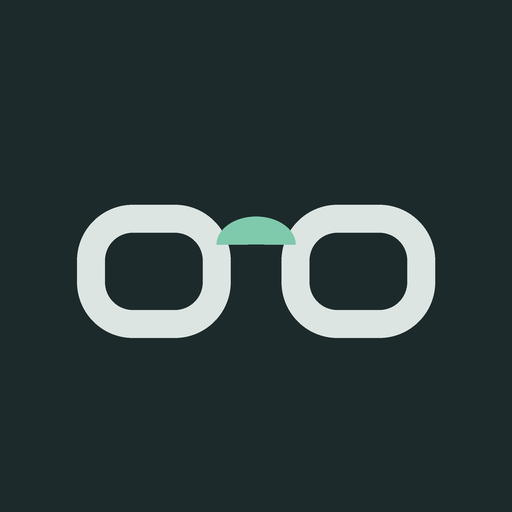
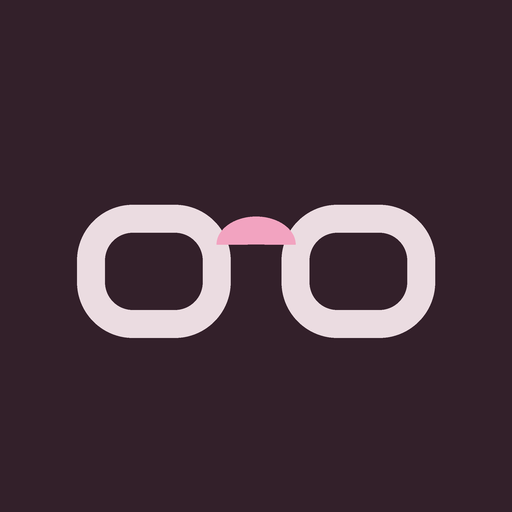
Add files via upload

Changed region(s): [[0.4062, 0.4062, 0.5938, 0.5]]

diff --git a/index.html b/index.html
@@ -4,7 +4,7 @@
 <meta charset="utf-8">
 <meta name="viewport" content="width=device-width, initial-scale=1, viewport-fit=cover">
 <title>Skincare</title>
-<meta name="theme-color" content="#1D2A2B">
+<meta name="theme-color" content="#33202A">
 <meta name="apple-mobile-web-app-capable" content="yes">
 <meta name="apple-mobile-web-app-status-bar-style" content="black-translucent">
 <meta name="apple-mobile-web-app-title" content="Skincare">
@@ -12,9 +12,9 @@
 <link rel="manifest" href="manifest.json">
 <style>
   :root{
-    --paper:#EEF1EC; --card:#F7F9F6; --ink:#151E1C; --night:#1D2A2B;
-    --night-ink:#DCE5E2; --signal:#2F6B57; --signal-lt:#7FC9AC; --warn:#A64B5C;
-    --warn-lt:#E79AA8; --muted:#69756F; --rule:#CFD8D1;
+    --paper:#F6EEF0; --card:#FCF7F8; --ink:#21151A; --night:#33202A;
+    --night-ink:#EBDCE1; --signal:#A5335F; --signal-lt:#F2A3C0; --warn:#8F5516;
+    --warn-lt:#E8B268; --muted:#7B6670; --rule:#E2CDD4;
     --mono:ui-monospace,SFMono-Regular,"SF Mono",Menlo,Consolas,monospace;
     --display:"Iowan Old Style","Palatino Linotype",Palatino,Georgia,serif;
   }
@@ -73,6 +73,32 @@
   .status-btns button{flex:1;padding:9px 0;border-radius:3px;border:1px solid var(--rule);background:none;color:var(--muted);font-family:var(--mono);font-size:11px;letter-spacing:.08em;}
   .status-btns button.on{background:var(--signal);border-color:var(--signal);color:#fff;}
   .status-btns button.on.worse{background:var(--warn);border-color:var(--warn);}
+  .status-row + .status-row{margin-top:12px;}
+  .row-label{font-size:12.5px;color:var(--muted);margin-bottom:6px;}
+
+  .flag{display:flex;align-items:center;gap:12px;margin-bottom:14px;padding:11px 13px;
+    background:var(--card);border:1px solid var(--rule);border-left:3px solid var(--signal);border-radius:3px;}
+  .flag-txt{flex:1;font-size:13px;}
+  .flag-txt b{display:block;font-family:var(--mono);font-size:9.5px;letter-spacing:.14em;
+    text-transform:uppercase;color:var(--signal);margin-bottom:3px;}
+  .flag button{flex:0 0 auto;padding:8px 12px;border-radius:3px;border:none;background:var(--signal);
+    color:#fff;font-family:var(--mono);font-size:10px;letter-spacing:.1em;}
+
+  .hist{margin-top:22px;padding-top:16px;border-top:1px solid var(--rule);}
+  .hist-toggle{width:100%;padding:8px;background:none;border:1px solid var(--rule);border-radius:3px;
+    font-family:var(--mono);font-size:10px;letter-spacing:.12em;color:var(--muted);}
+  .hist-list{margin-top:12px;}
+  .hist-row{display:grid;grid-template-columns:64px 1fr 1fr;gap:8px;align-items:baseline;
+    padding:7px 0;border-top:1px solid var(--rule);font-size:12.5px;}
+  .hist-row:first-child{border-top:none;}
+  .hist-date{font-family:var(--mono);font-size:10px;color:var(--muted);}
+  .hist-k{font-family:var(--mono);font-size:9px;letter-spacing:.1em;color:var(--muted);display:block;}
+  .v-Better{color:var(--signal);font-weight:600;}
+  .v-Worse{color:var(--warn);font-weight:600;}
+  .v-Same{color:var(--muted);}
+  .hist-empty{font-size:12.5px;color:var(--muted);margin-top:12px;}
+  .export{width:100%;margin-top:12px;padding:8px;background:none;border:1px solid var(--rule);
+    border-radius:3px;font-family:var(--mono);font-size:10px;letter-spacing:.12em;color:var(--muted);}
 
   .endnote{margin-top:16px;padding:13px 15px;border-left:3px solid var(--warn);background:var(--card);font-size:13px;}
   .endnote b{color:var(--warn);}
@@ -84,7 +110,7 @@
   .plabel{font-family:var(--mono);font-size:9px;letter-spacing:.12em;color:var(--muted);margin-bottom:6px;}
   .dots{display:grid;grid-template-columns:repeat(7,1fr);gap:5px;}
   .dot{aspect-ratio:1;border-radius:3px;border:1px solid var(--rule);background:none;color:var(--muted);font-family:var(--mono);font-size:9px;padding:0;}
-  .dot.part{background:#B6CFC4;}
+  .dot.part{background:#EFC3D4;}
   .dot.full{background:var(--signal);color:#fff;border-color:var(--signal);}
   .dot.today{border:1.5px dashed var(--signal);}
   .dot.cur{border:2px solid var(--ink);}
@@ -141,21 +167,18 @@
       am.push({ t: "La Roche-Posay B5 SPF \u2014 face" });
       am.push({ t: "Garnier fluid \u2014 bridge only, over the B5", k: "treat" });
     }
-    am.push({ t: "Five minutes before the glasses go on" });
-    if (wd === 0 || wd === 2 || wd === 4 || wd === 6)
-      am.push({ t: "Wash the frames \u2014 warm water + washing-up liquid" });
 
     pm.push({ t: "Byoma milky toner" });
     if (wd === 0 || wd === 4) {
       pm.push({ t: "The Ordinary retinol", k: "avoid" });
     } else if (wd === 2) {
       pm.push({ t: "La Roche-Posay salicylic acid toner", k: phase === 1 ? "include" : "avoid" });
-      pm.push({ t: "Purito bamboo gel" });
+      pm.push({ t: "Night moisturiser" });
     } else if (wd === 5) {
       pm.push({ t: "Glycolic acid toner", k: "avoid" });
-      pm.push({ t: "Purito bamboo gel" });
+      pm.push({ t: "Night moisturiser" });
     } else {
-      pm.push({ t: "Purito bamboo gel" });
+      pm.push({ t: "Night moisturiser" });
       pm.push({ t: "Niacinamide serum" });
     }
     return { phase: phase, wd: wd, am: am, pm: pm };
@@ -166,9 +189,10 @@
 
   /* ---------- state ---------- */
 
-  var state = { checks: {}, status: {} };
+  var state = { checks: {}, status: {}, lastExport: null };
   var index = todayIndex();
   var storageOK = true;
+  var histOpen = false;
 
   try {
     var raw = window.localStorage.getItem(STORE);
@@ -176,6 +200,7 @@
       var p = JSON.parse(raw);
       state.checks = p.checks || {};
       state.status = p.status || {};
+      state.lastExport = p.lastExport || null;
     }
   } catch (e) { storageOK = false; }
 
@@ -191,6 +216,37 @@
     if (cls) e.className = cls;
     if (text != null) e.textContent = text;
     return e;
+  }
+
+  // status is { face: "Better|Same|Worse", nose: ... }; tolerate the old single-string form
+  function statusFor(k) {
+    var v = state.status[k];
+    if (!v) return {};
+    if (typeof v === "string") return { nose: v };
+    return v;
+  }
+
+  function setStatus(k, part, val) {
+    var cur = statusFor(k);
+    var next = { face: cur.face, nose: cur.nose };
+    if (next[part] === val) delete next[part]; else next[part] = val;
+    if (!next.face && !next.nose) delete state.status[k];
+    else state.status[k] = next;
+  }
+
+  // what was actually applied that day — the thing a reaction has to be correlated against
+  function activesFor(i) {
+    var d = DAYS[i], out = [];
+    d.am.concat(d.pm).forEach(function (item) {
+      var t = item.t;
+      if (t.indexOf("Nizoral") === 0) out.push("Nizoral");
+      else if (t.indexOf("Benzoyl") === 0) out.push("BPO");
+      else if (t.indexOf("Garnier") === 0) out.push("Garnier");
+      else if (t.indexOf("The Ordinary retinol") === 0) out.push("Retinol");
+      else if (t.indexOf("La Roche-Posay salicylic") === 0) out.push("SA");
+      else if (t.indexOf("Glycolic") === 0) out.push("Glycolic");
+    });
+    return out;
   }
 
   function progressOf(i) {
@@ -245,23 +301,30 @@
       app.appendChild(jump);
     }
 
+    var flag = exportFlag();
+    if (flag) app.appendChild(flag);
+
     app.appendChild(slotBlock("AM", day.am, dk, "am", false));
     app.appendChild(slotBlock("PM", day.pm, dk, "pm", true));
 
-    // status
+    // reaction log
     var st = el("div", "status");
-    st.appendChild(el("div", "status-label", "How's the bridge today?"));
-    var btns = el("div", "status-btns");
-    ["Better", "Same", "Worse"].forEach(function (v) {
-      var b = el("button", null, v);
-      if (state.status[dk] === v) b.className = "on" + (v === "Worse" ? " worse" : "");
-      b.onclick = function () {
-        if (state.status[dk] === v) delete state.status[dk]; else state.status[dk] = v;
-        save(); render();
-      };
-      btns.appendChild(b);
+    st.appendChild(el("div", "status-label", "Any reactions?"));
+    var cur = statusFor(dk);
+    [["nose", "Nose"], ["face", "Rest of face"]].forEach(function (pair) {
+      var part = pair[0];
+      var row = el("div", "status-row");
+      row.appendChild(el("div", "row-label", pair[1]));
+      var btns = el("div", "status-btns");
+      ["Better", "Same", "Worse"].forEach(function (v) {
+        var b = el("button", null, v);
+        if (cur[part] === v) b.className = "on" + (v === "Worse" ? " worse" : "");
+        b.onclick = function () { setStatus(dk, part, v); save(); render(); };
+        btns.appendChild(b);
+      });
+      row.appendChild(btns);
+      st.appendChild(row);
     });
-    st.appendChild(btns);
     app.appendChild(st);
 
     // end-of-phase note
@@ -304,6 +367,9 @@
     });
     app.appendChild(gw);
 
+    // history + export
+    app.appendChild(historyBlock());
+
     // footer
     var f = el("footer");
     f.appendChild(document.createTextNode(storageOK
@@ -312,10 +378,14 @@
     f.appendChild(el("br"));
     f.appendChild(document.createTextNode("NEVER TWO ACIDS, OR ACID PLUS RETINOL, ON ONE NIGHT"));
     f.appendChild(el("br"));
+    f.appendChild(document.createTextNode(state.lastExport
+      ? "LAST EXPORT " + state.lastExport
+      : "NEVER EXPORTED"));
+    f.appendChild(el("br"));
     var reset = el("button", null, "Reset all progress");
     reset.onclick = function () {
       if (window.confirm("Clear every tick and note? This can't be undone.")) {
-        state = { checks: {}, status: {} };
+        state = { checks: {}, status: {}, lastExport: null };
         save(); render();
       }
     };
@@ -334,8 +404,8 @@
       var box = el("span", "box", on ? "\u2713" : "");
       var txt = el("span", "txt");
       txt.appendChild(document.createTextNode(item.t));
-      if (item.k === "avoid") txt.appendChild(el("span", "avoid", " \u2014 avoid the bridge"));
-      if (item.k === "include") txt.appendChild(el("span", "include", " \u2014 bridge included"));
+      if (item.k === "avoid") txt.appendChild(el("span", "avoid", " \u2014 avoid nose"));
+      if (item.k === "include") txt.appendChild(el("span", "include", " \u2014 nose included"));
       row.appendChild(box); row.appendChild(txt);
       row.onclick = function () {
         if (state.checks[k]) delete state.checks[k]; else state.checks[k] = true;
@@ -344,6 +414,131 @@
       wrap.appendChild(row);
     });
     return wrap;
+  }
+
+  function daysSince(isoKey) {
+    var parts = isoKey.split("-");
+    var then = new Date(+parts[0], +parts[1] - 1, +parts[2]);
+    var now = new Date();
+    now = new Date(now.getFullYear(), now.getMonth(), now.getDate());
+    return Math.round((now - then) / 86400000);
+  }
+
+  // nudge on Sundays, and again if a week has slipped by without a backup
+  function exportFlag() {
+    var ti = todayIndex(), t = dateFor(ti), tk = keyFor(t);
+    if (state.lastExport === tk) return null;
+
+    var isSunday = t.getDay() === 0;
+    var gap = state.lastExport ? daysSince(state.lastExport) : ti;
+    var stale = gap >= 7;
+    if (!isSunday && !stale) return null;
+
+    var wrap = el("div", "flag");
+    var txt = el("div", "flag-txt");
+    txt.appendChild(el("b", null, isSunday ? "Sunday" : "Backup overdue"));
+    txt.appendChild(document.createTextNode(
+      state.lastExport
+        ? "Last export was " + gap + (gap === 1 ? " day ago." : " days ago.")
+        : "Nothing backed up yet. Export the log so a wipe can't cost you it."
+    ));
+    wrap.appendChild(txt);
+
+    var b = el("button", null, "EXPORT");
+    b.onclick = exportCsv;
+    wrap.appendChild(b);
+    return wrap;
+  }
+
+  function historyBlock() {
+    var wrap = el("div", "hist");
+
+    var logged = [];
+    for (var i = 0; i < TOTAL; i++) {
+      var st = statusFor(keyFor(dateFor(i)));
+      if (st.face || st.nose) logged.push(i);
+    }
+
+    var toggle = el("button", "hist-toggle",
+      (histOpen ? "HIDE" : "SHOW") + " REACTION LOG (" + logged.length + ")");
+    toggle.onclick = function () { histOpen = !histOpen; render(); };
+    wrap.appendChild(toggle);
+
+    if (!histOpen) return wrap;
+
+    if (!logged.length) {
+      wrap.appendChild(el("p", "hist-empty",
+        "Nothing logged yet. Tap Better / Same / Worse on a day and it'll appear here."));
+    } else {
+      var list = el("div", "hist-list");
+      logged.forEach(function (i) {
+        var d = dateFor(i), st = statusFor(keyFor(d));
+        var row = el("div", "hist-row");
+
+        var dt = el("div", "hist-date");
+        dt.textContent = d.toLocaleDateString("en-GB", { day: "2-digit", month: "short" });
+        var acts = activesFor(i);
+        dt.appendChild(el("span", "hist-k", acts.length ? acts.join(" ") : "\u2014"));
+        row.appendChild(dt);
+
+        [["nose", "NOSE"], ["face", "FACE"]].forEach(function (pair) {
+          var cell = el("div");
+          cell.appendChild(el("span", "hist-k", pair[1]));
+          var v = st[pair[0]];
+          cell.appendChild(el("span", v ? "v-" + v : "v-Same", v || "\u2014"));
+          row.appendChild(cell);
+        });
+        list.appendChild(row);
+      });
+      wrap.appendChild(list);
+    }
+
+    var exp = el("button", "export", "EXPORT ALL 63 DAYS AS CSV");
+    exp.onclick = exportCsv;
+    wrap.appendChild(exp);
+
+    return wrap;
+  }
+
+  function exportCsv() {
+    var rows = [["date", "day", "phase", "weekday", "actives", "nose", "face", "steps_done", "steps_total"]];
+    for (var i = 0; i < TOTAL; i++) {
+      var d = dateFor(i), k = keyFor(d), st = statusFor(k), pg = progressOf(i);
+      rows.push([
+        k,
+        i + 1,
+        Math.floor(i / 21) + 1,
+        d.toLocaleDateString("en-GB", { weekday: "short" }),
+        activesFor(i).join(" "),
+        st.nose || "",
+        st.face || "",
+        pg.done,
+        pg.total
+      ]);
+    }
+    var csv = rows.map(function (r) {
+      return r.map(function (c) {
+        c = String(c);
+        return /[",\n]/.test(c) ? '"' + c.replace(/"/g, '""') + '"' : c;
+      }).join(",");
+    }).join("\n");
+
+    try {
+      var blob = new Blob([csv], { type: "text/csv;charset=utf-8" });
+      var url = URL.createObjectURL(blob);
+      var a = document.createElement("a");
+      a.href = url;
+      a.download = "skincare-log.csv";
+      document.body.appendChild(a);
+      a.click();
+      document.body.removeChild(a);
+      setTimeout(function () { URL.revokeObjectURL(url); }, 1000);
+    } catch (e) {
+      window.prompt("Copy the CSV:", csv);
+    }
+    state.lastExport = keyFor(new Date());
+    save();
+    render();
   }
 
   render();

diff --git a/sw.js b/sw.js
@@ -1,6 +1,6 @@
 // Cache the shell so the tracker opens without a connection.
 // Bump CACHE when you change index.html, or the old copy will keep being served.
-const CACHE = "skincare-v1";
+const CACHE = "skincare-v5";
 const SHELL = ["./", "./index.html", "./icon.png", "./manifest.json"];
 
 self.addEventListener("install", (e) => {
